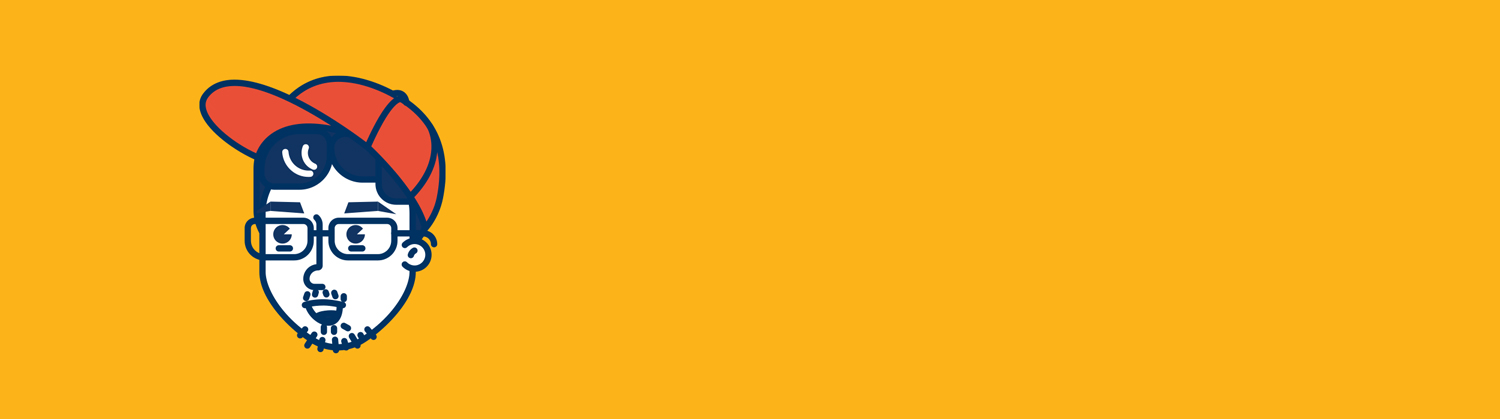
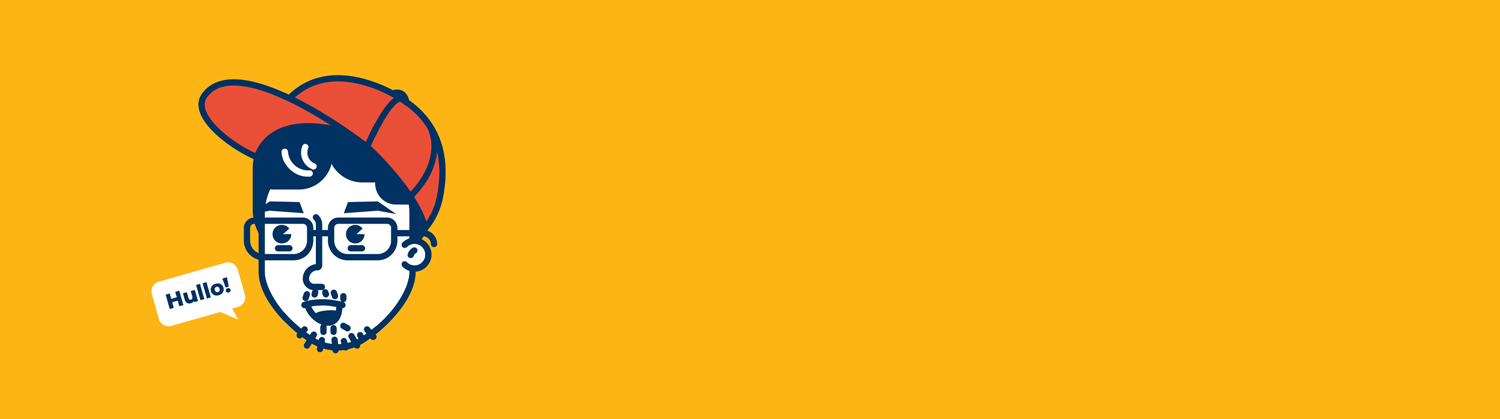
adjusts font colours for home, adds hullo to image

diff --git a/index.html b/index.html
@@ -186,21 +186,22 @@
                     <div class="col-md-4">
                         <!-- empty div for the face to be seen -->
                     </div>
-                    <div class="col-md-8 text-white darktextlight">
+                    <div class="col-md-8 textblueberkeley">
                         <div class="d-md-none d-lg-block d-xl-none d-xxl-block space py-4"></div>
                         <!-- Two headings because the title on phone is too big and on desktop, too small -->
                         <h1 role="heading" aria-level="1"
-                            class="d-md-none select-blue card-title display-3 fw-bold about-title lh-1">Art Director,
-                            Motion Designer, Day Dreamer!
+                            class="d-md-none textblueberkeley-intro card-title display-3 fw-bold about-title lh-1">Art
+                            Director, <span class="textcinnabar-intro">Motion Designer,</span>
+                            <span class="text-white">Day Dreamer!</span> 
                         </h1>
                         <h1 role="heading" aria-level="1"
-                            class="d-none d-md-block select-blue card-title display-2 fw-bold about-title lh-1">Art
-                            Director,
-                            Motion Designer, Day Dreamer!
+                            class="d-none d-md-block textblueberkeley-intro card-title display-2 fw-bold about-title lh-1">Art
+                            Director, <span class="textcinnabar-intro">Motion Designer,</span>
+                            <span class="text-white">Day Dreamer!</span> 
                         </h1>
-                        <p class="select-blue fs-4 fw-medium"><i class="fa-solid fa-location-dot"></i>
+                        <!-- <p class="select-blue fs-4 fw-medium"><i class="fa-solid fa-location-dot"></i>
                             Ottawa, Ontario
-                        </p>
+                        </p> -->
                     </div>
 
                     <!-- Arrow to Scroll -->

diff --git a/css/main.css b/css/main.css
@@ -119,6 +119,7 @@ body {
     color: var(--berkeleyblue);
     border-radius: 40px;
     transition: 0.3s;
+    font-weight: bold !important;
 }
 
 .navresume:hover,
@@ -128,6 +129,7 @@ body {
 }
 
 .navcv {
+    font-weight: bold !important;
     background-color: var(--cinnabar);
     color: var(--berkeleyblue);
     border-radius: 40px;
@@ -344,7 +346,6 @@ footer,
 .smicons {
     transition: 0.3s;
     padding: 10px 15px;
-    background-color: white;
     color: var(--cinnabar);
     border: 2px solid var(--cinnabar);
 }
@@ -538,8 +539,12 @@ body {
 
 /* Make text hihglight in banner to blue */
 
-.select-blue::selection {
-    background: var(--berkeleyblue);
+.textblueberkeleyonly {
+    color: var(--berkeleyblue);
+}
+
+.textcinnabar-intro {
+    color: var(--cinnabar);
 }
 
 /* Style list in Open Ottawa project */

diff --git a/css/darkmode.css b/css/darkmode.css
@@ -163,6 +163,7 @@ body {
 .navresume {
     background-color: var(--californiagold);
     color: white;
+    font-weight: bold !important;
     border-radius: 40px;
     transition: 0.3s;
 }
@@ -174,6 +175,7 @@ body {
 }
 
 .navcv {
+    font-weight: bold !important;
     background-color: var(--cinnabar);
     color: white;
     border-radius: 40px;
@@ -574,10 +576,14 @@ body {
 
 }
 
-/* Make text hihglight in banner to blue */
+/* Text colours in banner */
 
-.select-blue::selection {
-    background: var(--berkeleyblue);
+.textblueberkeley-intro {
+    color:white;
+}
+
+.textcinnabar-intro {
+    color: white;
 }
 
 /* Darken banner image? */
@@ -594,7 +600,7 @@ body {
     bottom: 0;
     left: 0;
     right: 0;
-    background: rgba(0, 0, 0, 0.5);
+    background: rgba(0, 0, 0, 0.4);
 }
 
 .spacebelowbanner {

diff --git a/about.html b/about.html
@@ -369,9 +369,9 @@
             </a>
         </div>
         <div class="ctafooter container-xxl p-4 pb-2 text-center">
-            <h2 data-aos="fade-up" data-aos-duration="1000" class="text-white display-6 pb-4">
+            <!-- <h2 data-aos="fade-up" data-aos-duration="1000" class="text-white display-6 pb-4">
                 Have a project in mind? Let's Talk!
-            </h2>
+            </h2> -->
             <!-- <div data-aos="fade-up" data-aos-duration="1100"
                 class="d-flex justify-content-center flex-column flex-md-row align-items-center">
                 <a target="_blank" class="text-decoration-none" href="https://calendly.com/sunitjjo/30min">

diff --git a/bagelsheet.html b/bagelsheet.html
@@ -344,7 +344,7 @@
             </p>
             <p class="textberkeley fs-4 px-4 pb-4">
                 Since all the sandwiches couldn't fit into one page, I arranged similar sandwiches, based on oven / egg
-                cooker preperation in a page, making it easier to find the sandwich that needs to be built.
+                cooker preparation in a page, making it easier to find the sandwich that needs to be built.
             </p>
             <!-- Title Image + Both Sheets Mockup -->
             <div class="px-4">

diff --git a/openottawa.html b/openottawa.html
@@ -532,7 +532,7 @@
             </div>
             <p class="textberkeley fst-italic fs-6 px-4">
                 This project would not have been possible without the valuable contributions of my team members: Fallon
-                Pulido, Esmeralda Paredes, Tina Le, Reda El Maddahi, and our professor, Sean Sytsma.
+                Pulido, Esmeralda Paredes, Tina Le, Reda El Maddahi, and the support of our professor, Sean Sytsma.
             </p>
 
         </section>
